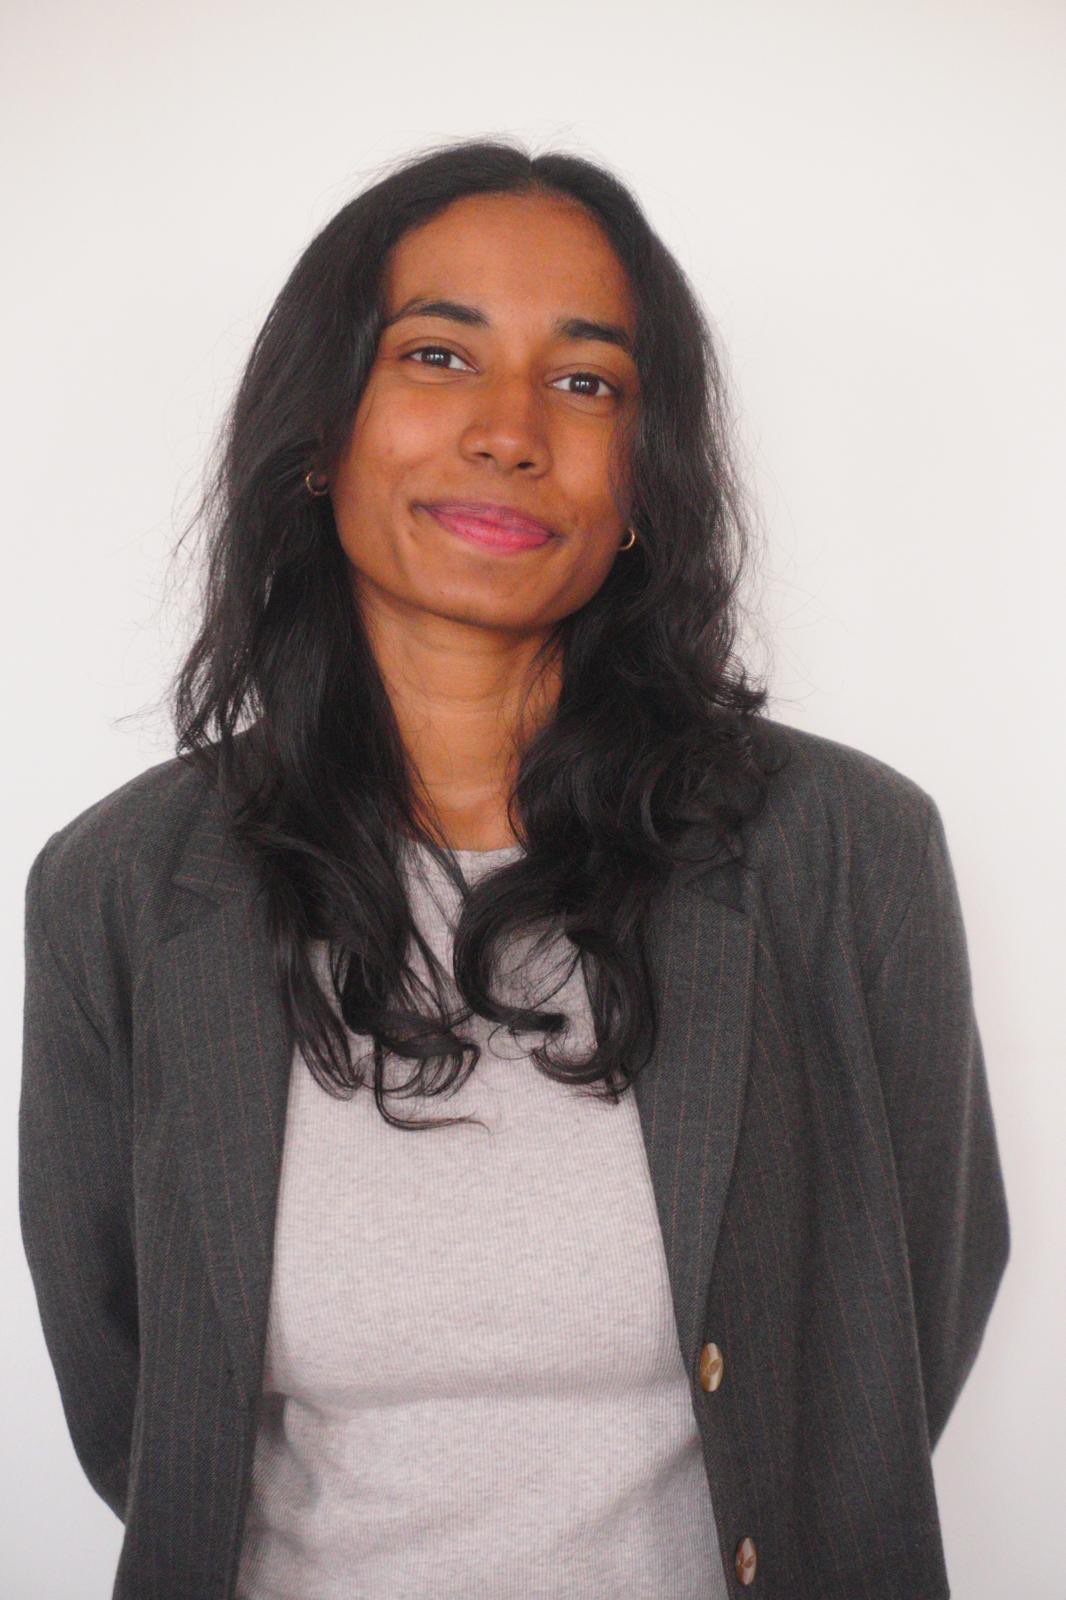
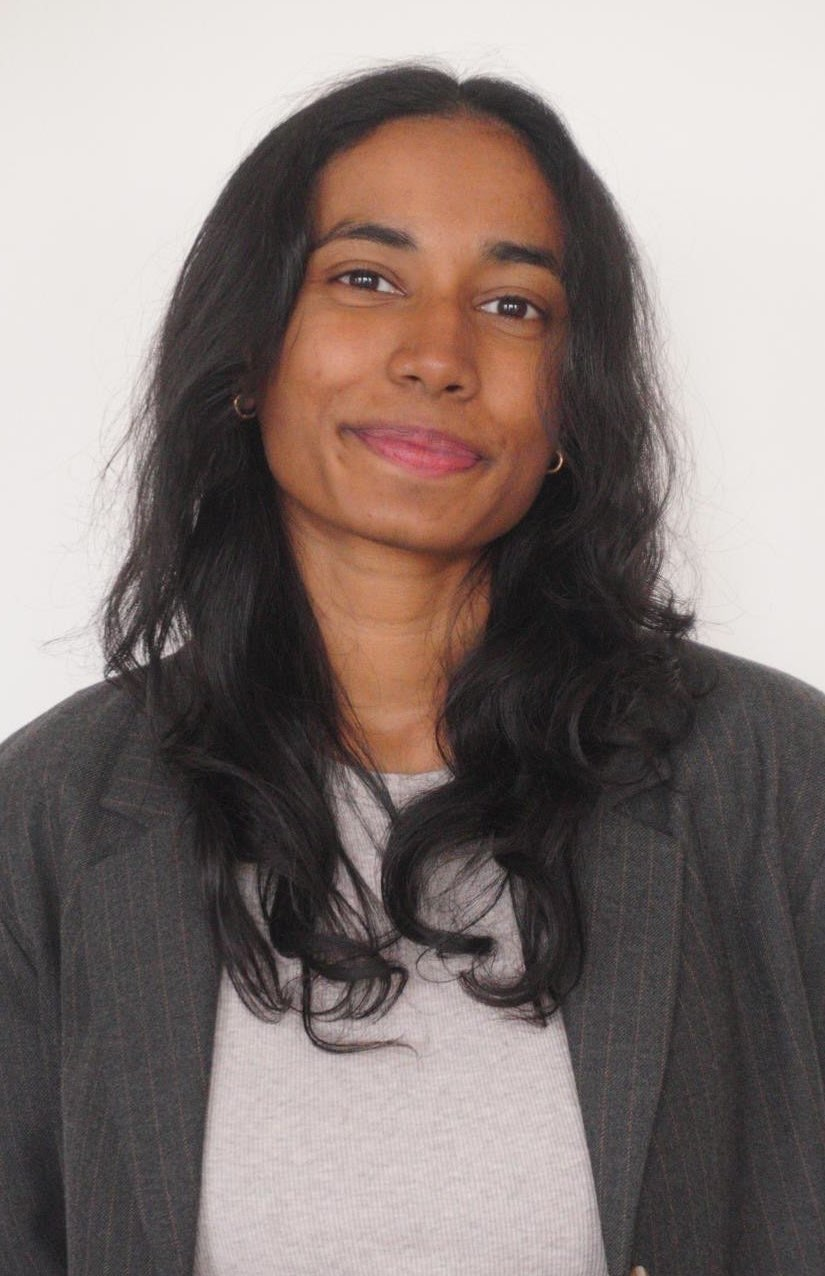
Centrer la photo

diff --git a/assets/css/site.css b/assets/css/site.css
@@ -37,6 +37,7 @@
 }
 
 * { box-sizing: border-box; margin: 0; padding: 0; }
+*::before, *::after { box-sizing: border-box; }
 html { scroll-behavior: smooth; scroll-padding-top: 72px; }
 body { font-family: Inter, system-ui, -apple-system, Segoe UI, sans-serif; background: var(--bg); color: var(--text); line-height: 1.6; -webkit-font-smoothing: antialiased; }
 h1, h2, h3, h4, .logo, .stat b { font-family: var(--display); }
@@ -113,7 +114,7 @@ header.scrolled { border-bottom-color: var(--border); }
 .hero p.intro { font-size: 1.12rem; color: var(--muted); max-width: 560px; margin-bottom: 30px; }
 .hero-actions { display: flex; flex-wrap: wrap; gap: 12px; }
 .portrait { position: relative; }
-.portrait img { width: 100%; height: auto; aspect-ratio: 4/5; object-fit: cover; object-position: 50% 30%; border-radius: 22px; box-shadow: var(--shadow); }
+.portrait img { width: 100%; height: auto; aspect-ratio: 4/5; object-fit: cover; object-position: 50% 0%; border-radius: 22px; box-shadow: var(--shadow); }
 .portrait::before { content: ""; position: absolute; inset: 18px -18px -18px 18px; border: 2px solid var(--sun); border-radius: 22px; z-index: -1; opacity: .6; }
 .stats { display: grid; grid-template-columns: repeat(3, 1fr); gap: 16px; margin-top: 44px; max-width: 560px; }
 .stat b { display: block; font-size: 1.6rem; letter-spacing: -.02em; }
@@ -131,7 +132,7 @@ header.scrolled { border-bottom-color: var(--border); }
 .timeline::before { border-left: 2px dashed color-mix(in srgb, var(--accent) 40%, transparent); }
 .timeline::after { border-left: 2px solid var(--accent); transform-origin: top; transform: scaleY(var(--trail)); }
 .job { position: relative; }
-.job::before { content: ""; position: absolute; left: -34px; top: 30px; width: 18px; height: 18px; border-radius: 50%; background: var(--bg-alt); border: 3px solid color-mix(in srgb, var(--accent) 50%, var(--border)); z-index: 1; transition: background .3s, border-color .3s, transform .3s; }
+.job::before { content: ""; position: absolute; left: -35px; top: 30px; width: 18px; height: 18px; border-radius: 50%; background: var(--bg-alt); border: 3px solid color-mix(in srgb, var(--accent) 50%, var(--border)); z-index: 1; transition: background .3s, border-color .3s, transform .3s; }
 .job.reached::before { background: var(--accent); border-color: var(--accent); transform: scale(1.1); }
 
 /* Les cartes réagissent au survol */
@@ -248,7 +249,7 @@ footer .container { display: flex; justify-content: space-between; flex-wrap: wr
   .timeline::before, .timeline::after { left: 6px; }
   .cdi { padding: 10px 14px; gap: 12px; }
   .cdi b { font-size: 1.05rem; }
-  .job::before { left: -26px; width: 14px; height: 14px; }
+  .job::before { left: -27px; width: 14px; height: 14px; }
   .hero { padding-bottom: 110px; }
   .hero::before { width: 520px; height: 520px; right: -220px; top: -40px; }
   .hero::after, .contact::after { height: 56px; }
@@ -425,9 +426,9 @@ a:hover .arr.up { transform: translateY(-3px); }
 
 /* Frises chronologiques des pages de veille */
 .vtimeline { list-style: none; position: relative; padding: 4px 0 0 30px !important; margin: 8px 0 24px; }
-.vtimeline::before { content: ""; position: absolute; left: 7px; top: 12px; bottom: 12px; border-left: 2px dashed color-mix(in srgb, var(--accent) 40%, transparent); }
+.vtimeline::before { content: ""; position: absolute; left: 6px; top: 12px; bottom: 12px; border-left: 2px dashed color-mix(in srgb, var(--accent) 40%, transparent); }
 .vtimeline li { position: relative; display: flex; gap: 16px; align-items: flex-start; margin-bottom: 14px !important; padding: 14px; border-radius: var(--radius); background: var(--card); border: 1px solid var(--border); transition: transform .25s, border-color .25s; }
-.vtimeline li::before { content: ""; position: absolute; left: -30px; top: 22px; width: 14px; height: 14px; border-radius: 50%; background: var(--bg); border: 3px solid var(--accent); }
+.vtimeline li::before { content: ""; position: absolute; left: -31px; top: 22px; width: 14px; height: 14px; border-radius: 50%; background: var(--bg); border: 3px solid var(--accent); }
 .vtimeline li:hover { transform: translateX(4px); border-color: color-mix(in srgb, var(--accent) 45%, var(--border)); }
 .vtimeline img { width: 110px; height: 80px; flex: none; object-fit: cover; border-radius: 8px; }
 .vtimeline .y { font-family: var(--mono); font-size: .78rem; color: var(--sun-text); }
